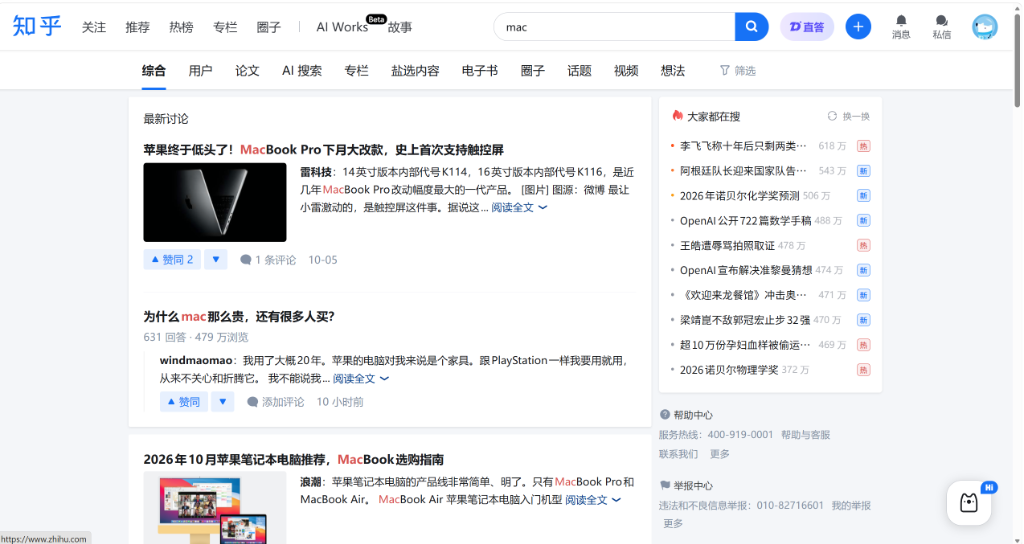
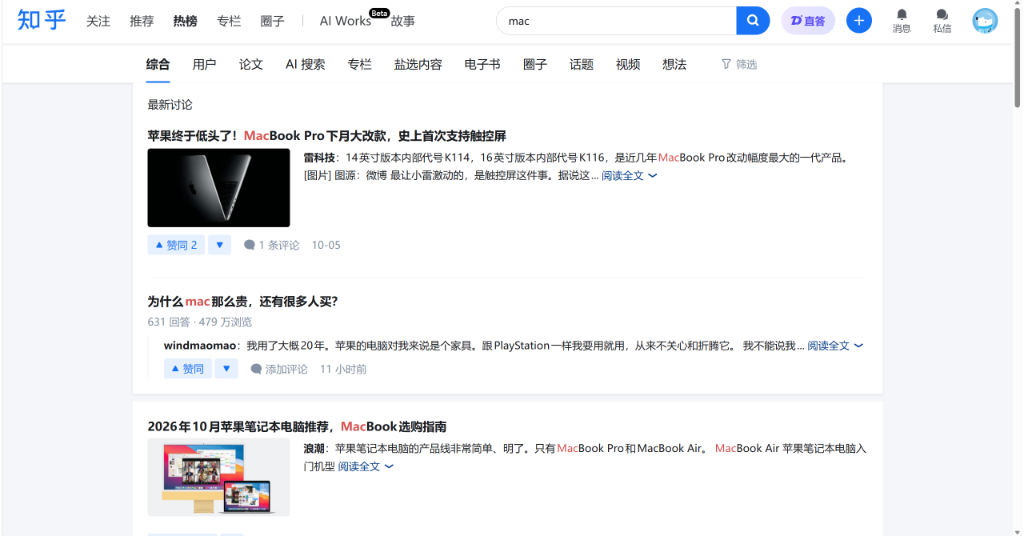
docs: 更新知乎搜索页真实净化效果图（拔除右侧栏与客服浮标）

diff --git a/README.md b/README.md
@@ -63,6 +63,9 @@
 
 * **搜索结果 100% 完整放行**：
   * 输入关键词搜索后，综合、用户、论文、AI 搜索、专栏、盐选内容、电子书等分类 tabs 及排序筛选完全正常可用。
+* **彻底拔除搜索页右侧栏**：
+  * 彻底隐藏右侧冗余的“大家都在搜”推荐卡片、帮助中心、举报中心及页脚备案信息；
+  * 搜索主体内容居中自适应，排版纯粹干净，杜绝右侧闲杂热搜干扰。
 * **问答与专栏沉浸体验**：
   * 进入问题页后，脚本自动模拟点击“展开更多”与“阅读全文”，**自动一键展开所有优质回答**，无需逐个手动点击；
   * 专栏文章与问答页隐藏多余侧边栏，正文主体自动扩宽居中自适应，告别左右拥挤。
